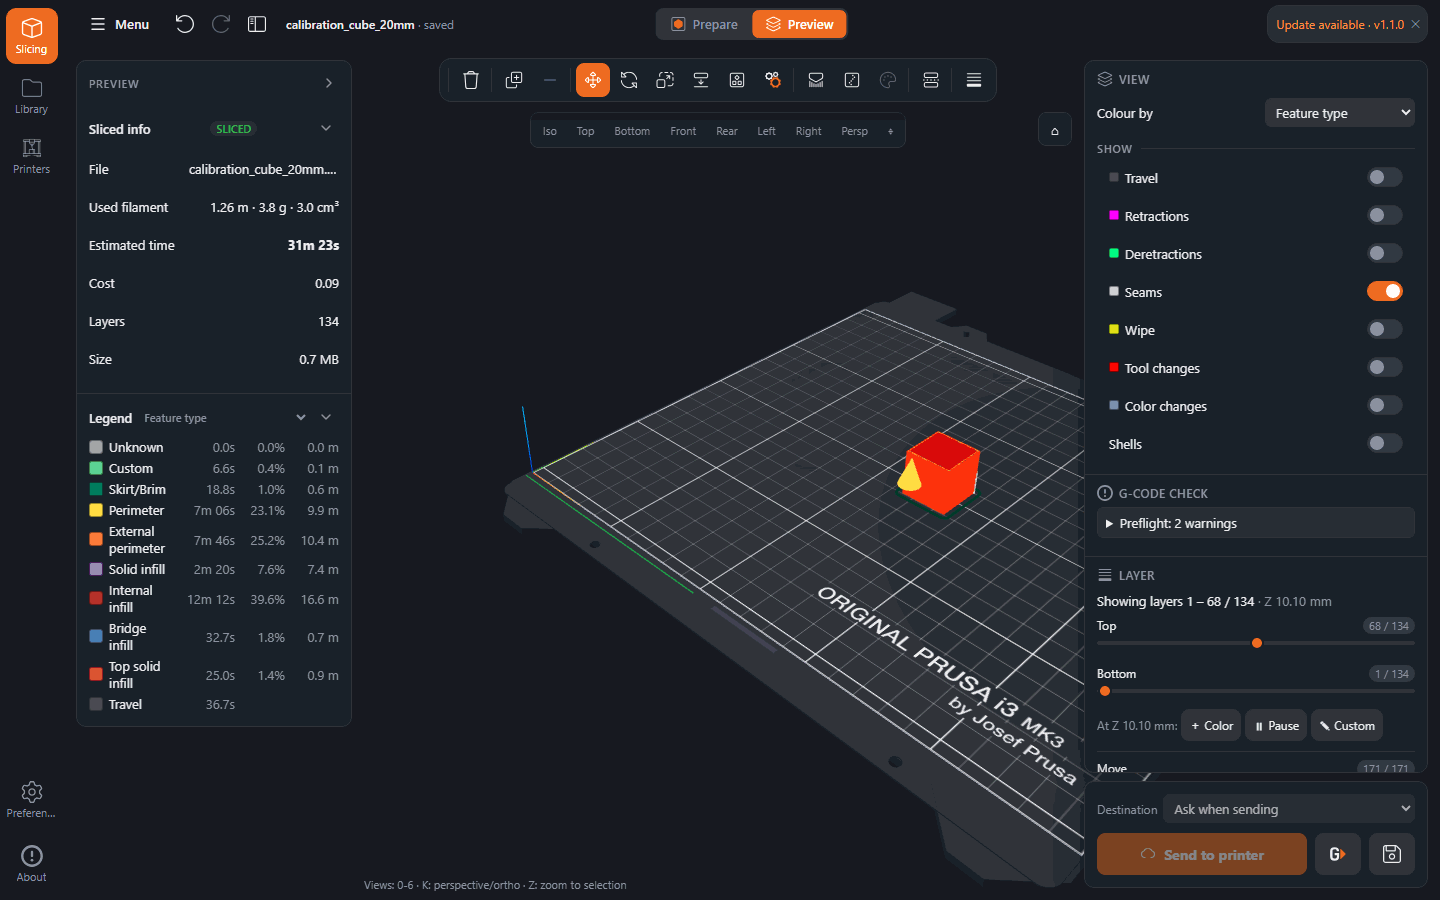
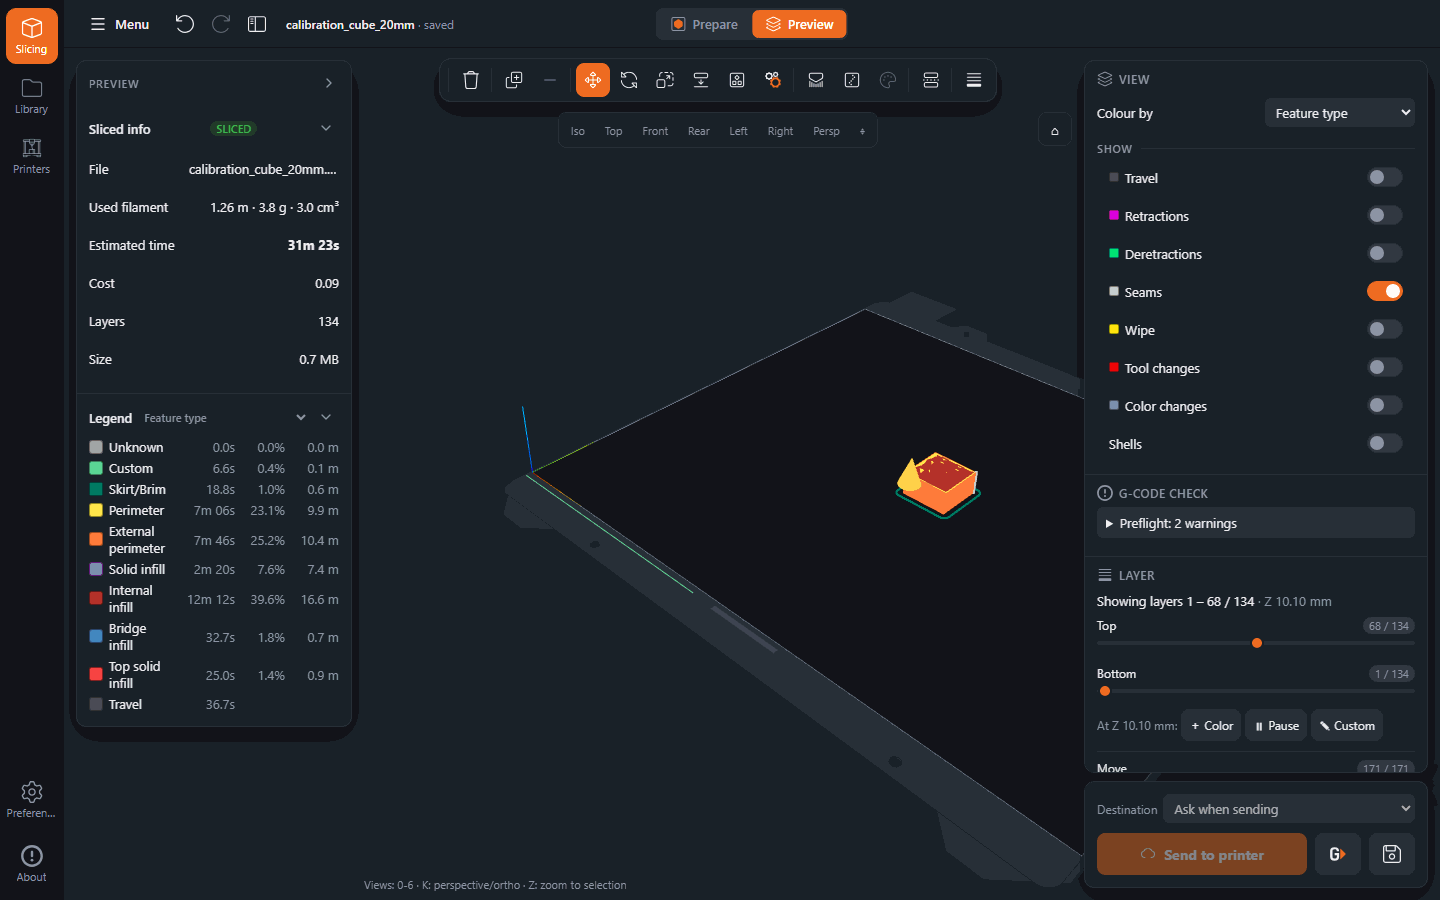
docs: the phone sheet, Details and view row (T-099)
features.md describes the four sheet positions, the library on an empty plate and the four-button view row; UAT-58 covers the new gestures. CHANGELOG lines for the fixes and changes, and preview.png no longer shows the Preview's Bottom button (#14).

diff --git a/docs/UAT.md b/docs/UAT.md
@@ -81,8 +81,8 @@ browser and screenshot.
 | UAT-54 | The "print at your own risk" notice (T-082) | Read the top of `README.md`, `SECURITY.md` and `docs/safety.md`. In the app open the rail's **About** and follow its **Safety checks** link. | All three documents open with the same short notice: WebSlicer slices and sends G-code to real machines, check the temperatures and the plate yourself, the checks reduce but do not remove the risk, AGPL without warranty, with a link to the safety page. The About dialog shows the same sentence before the shortcut table, and its link opens `docs/safety.md` on GitHub in a new tab. |
 | UAT-55 | Arrange on the real outline (T-084) | Open **Library → samples** and load `l_bracket.stl` twice. Press **A** and note where the two brackets land. Open the gear next to **Arrange**, tick **Enable rotations**, close the popover and press **A** again; then load a print profile with a brim (e.g. 5 mm) and arrange once more. | In the first run the two brackets stand side by side on one line, about one 40 mm square plus the 6 mm spacing apart, neither turned. With rotations on one of them is turned 180°, its notch faces the other's, and the two stand one behind the other in a single column – visibly closer than a square plus spacing, their outlines interlocking with the clearance kept. The slice panel lists no plate issue and **Slice now** is enabled in both runs. With the brim set, the arranged block keeps the brim's room at the bed edge and the plate check still lists nothing. The headless arrange of the same plate (`POST /api/projects/<id>/arrange` with the same settings) gives the same positions. |
 | UAT-56 | The safety step in the printer wizard (T-085) | Load the cube. With no answer for the active printer, look at the Slice footer, click its **No hotend type set…** link and answer **PTFE-lined hotend**, **Save**. Then set the filament `temperature` to `260` (Expert mode → Filament settings) and look at the field and the footer; fix it to `215`. Do the same through the API: `curl -X PUT -H 'content-type: application/json' -d '{"hotendType":"ptfe"}' http://localhost:8080/api/printer-safety/<preset>` then `POST /api/slice` with `"temperature":"260"`. Finally, delete `data/risk-notice.json`, reload and press **Slice now**; leave **Continue** locked, tick **I understand**, continue, then reload and slice again. Repeat the wizard once with a **Custom printer** and once with **Ask me later**. | The footer warns "No hotend type set for this printer – temperatures are only checked against the global 450 °C ceiling" and **Slice now** stays enabled; the link opens the Printers dialog straight on the safety question, titled with the preset name, with **Save** disabled until a type is chosen. After saving, `GET /api/printer-safety` holds `{"<preset>":{"hotendType":"ptfe","maxHotend":240}}` and the warning is gone. At 260 °C the field turns red with "… is above the 240 °C limit of this printer (PTFE-lined hotend)", the footer lists it with a red badge and **Slice now** is disabled; at 215 °C everything is clear again. The `curl` slice answers **400** with the same message and `config.hotend_limit` in `issues`. A fresh profile shows the **Before you print** card before the first slice: **Continue** is disabled until **I understand** is ticked, then the slice runs and `data/risk-notice.json` holds the version; after a reload no card appears. **Not now** closes the card without storing anything and the next slice in that session does not ask again. The custom printer shows **Step 2 of 3 – Safety** between the printer and its filament and stores `all-metal`/450; **Ask me later** stores nothing and the footer warning stays. |
-| UAT-57 | Phone companion flow (T-091) | Open the app in a phone browser (or a desktop browser narrowed to 390 × 844, with touch emulation). Tap **Library** in the bottom tab bar, upload an STL and tap its row; check the bottom sheet's three positions with a tap on its drag handle; pick a filament in the sheet; press **Slice now**; the app switches to the Preview on its own – check its layer slider, then press **Send to printer** to a configured host. Open **Printers**, **Preferences** and **About** from the bar, and the object list from the top bar. | Four labelled tabs, each ≥ 44 × 44 px, with **More** holding Preferences and About. The Slice button is on screen in every sheet position, without scrolling the page, and the sheet never covers the preview's layer slider. No screen scrolls sideways (`document.documentElement.scrollWidth` equals the viewport width). Every dialog fits between the browser bar and the phone's gesture area and its primary button (Apply, Next, Upload, Save) is reachable without scrolling. The object list is a drawer that stops above the tab bar. The send reaches the printer and the dialog closes. |
-| UAT-58 | The 3D view and the preview by finger (T-092) | Open the app on a phone (or a narrow window with touch emulation), touch a model on the plate and drag a finger over empty space, pinch with two fingers and move them together, double-tap the screen, long-press the model, then drag the selected model across the plate. Load a job, open the preview and tap the view buttons above it, drag the bottom slider, open the preview details and send the job to a printer from the sheet. | The page never scrolls or reloads from a gesture on the model (no pull-to-refresh, no back-swipe): one finger orbits, two fingers zoom and pan, a double tap restores the whole plate, a tap selects and a tap on empty space clears it, a long press offers Duplicate and Delete at the finger, and a drag of the selected model moves it on the plate and drops it onto the bed. In the preview every view button frames the toolpaths (not an empty plate), the slider's thumb is at least 44 px and drags by finger, the details fold into a chip in the sheet, the result line (time, filament, cost) and **Send** sit in the peek sheet, and the send's confirmation names the printer and the file. Landscape at 844 × 390 shows no sideways scroll and keeps the Slice button on screen. |
+| UAT-57 | Phone companion flow (T-091) | Open the app in a phone browser (or a desktop browser narrowed to 390 × 844, with touch emulation). Tap **Library** in the bottom tab bar, upload an STL and tap its row; check the bottom sheet's positions with a tap on its drag handle and a drag of it; pick a filament in the sheet; press **Slice now**; the app switches to the Preview on its own – check its layer slider, then press **Send to printer** to a configured host. Open **Printers**, **Preferences** and **About** from the bar, and the object list from the top bar. | Four labelled tabs, each ≥ 44 × 44 px, with **More** holding Preferences and About. The Slice button is on screen in every sheet position but hidden (the drag's position alone), without scrolling the page, and the sheet never covers the preview's layer slider. No screen scrolls sideways (`document.documentElement.scrollWidth` equals the viewport width). Every dialog fits between the browser bar and the phone's gesture area and its primary button (Apply, Next, Upload, Save) is reachable without scrolling. The object list is a drawer that stops above the tab bar. The send reaches the printer and the dialog closes. |
+| UAT-58 | The 3D view and the preview by finger (T-092, T-099) | Open the app on a phone (or a narrow window with touch emulation), touch a model on the plate and drag a finger over empty space, pinch with two fingers and move them together, double-tap the screen, long-press the model, then drag the selected model across the plate. On an empty plate check the **From library** button next to **Choose a model…**. Drag the sheet's grip down past peek until the grip is alone, tap it back to peek, and drag up slowly to watch the sheet follow the finger. Load a job, open the preview, tap **Details** in the peek row, tap the four view buttons above the model (Home, Iso, turn left, turn right) and turn right four times, drag the bottom slider, and send the job to a printer from the sheet. | The page never scrolls or reloads from a gesture on the model (no pull-to-refresh, no back-swipe): one finger orbits, two fingers zoom and pan, a double tap restores the whole plate, a tap selects and a tap on empty space clears it, a long press offers Duplicate and Delete at the finger, and a drag of the selected model moves it on the plate and drops it onto the bed. **From library** opens the Library dialog and loading its sample folds the sheet to peek. The sheet follows the finger one-to-one, settles on the nearest position after the release (or on the next one after a fling), gets as far down as the grip alone with the Slice button gone there, and a tap walks peek → half → full → peek without ever stopping on hidden. In the preview the row has exactly four buttons in one line (Home, Iso, turn left, turn right): each frames the toolpaths, a turn keeps the camera's height and distance, and four turns come back to the start. The row has no Top/Bottom/Front/Rear/Left/Right on a phone, and on a desktop the Preview's row has no Bottom while the Plater keeps all seven (key 2 still works in both). **Details** sits in the peek row, opens the sliced info and the legend, and the result line (time, filament, cost) and **Send** stay in the peek sheet. Landscape at 844 × 390 shows no sideways scroll and keeps the Slice button on screen. |
 | UAT-59 | Preview feedback (T-094, T-097) | Slice the 30 mm sphere. Zoom far out and close in; at close zoom drag **Top** and **Bottom** to a middle layer, then to the first and last single layers and back to the full range; drag the Move slider back and forth. In Filament Settings set **Filament colour** through the swatch and then through its hex field, returning to Preview with **Color print** selected each time. | Extrusion ribbons keep a readable width (at least 1.5 px far away) and stay interactive. At close zoom the layer window removes exactly the layers outside it, both single-layer ends stay visible, the full range restores the model, and Move partly removes/rebuilds the top layer while the yellow nozzle follows. Both colour controls hold the same valid hex value and the Preview changes to each chosen colour. |
 
 ## Known limitations (rc.2)

diff --git a/docs/features.md b/docs/features.md
@@ -104,12 +104,15 @@ Below 640 px the same app is a companion view for the print you already started:
 - the rail becomes a **bottom tab bar** with four labelled entries – **Slicing**, **Library**,
   **Printers** and **More**; More opens Preferences and About, so no function is lost. Every tab is
   at least 44 × 44 px, and the bar stays clear of the phone's gesture area;
-- the context panel is a **bottom sheet** with a drag handle. It has three positions – **peek**
-  (the Slice button and its warning line alone, the default, so the model keeps the scene), **half**
-  (the presets and quick settings) and **full** (the whole card). Tap the handle to walk through them,
-  or drag it up and down. The **Slice button is in the sheet's footer in every position**, so the file
-  on the plate is always one tap from slicing. In the Preview the layer card is the sheet's first
-  card, so one tap on the handle brings the layer slider up with the sliced model visible above it;
+- the context panel is a **bottom sheet** with a drag handle. It has four positions – **hidden** (the
+  grip alone, so the scene has the whole screen), **peek** (the Slice button and its warning line
+  alone, the default, so the model keeps the scene), **half** (the presets and quick settings) and
+  **full** (the whole card). Drag the handle or the card's header and the sheet follows the finger
+  one-to-one; it settles on the nearest position when the finger lifts, or on the next one in the
+  direction of a fling. A tap walks through peek → half → full → peek and never down to hidden. The
+  **Slice button is in the sheet's footer in every position but hidden**, so the file on the plate is
+  always one tap from slicing. In the Preview the layer card is the sheet's first card, so one tap on
+  the handle brings the layer slider up with the sliced model visible above it;
 - the object list is a **drawer** that the top bar opens; it stops above the tab bar;
 - dialogs take the phone's width, scroll their body and keep their primary button in a foot that
   stays on screen. Text and number fields use the phone's decimal keypad and are 16 px, so the browser
@@ -134,15 +137,18 @@ model:
 | Long press an object            | A small menu: **Duplicate**, **Delete**                                 |
 
 Rotating, scaling and the exact numbers stay in the panels, where a field and a stepper are more
-precise than a finger. The seven view buttons sit in one row of short labels above the model (their
-tooltips keep the whole word), and each frames what its name says.
+precise than a finger. The view row above the model is four icon buttons in one line – **Home**
+(frames the whole plate), **Iso**, and the two quarter turns that walk the camera around the model at
+the same elevation and distance – so the four isometric corners are one tap apart. On a wider window
+the row keeps the seven named views (minus Bottom in the Preview, where the plate hides the underside;
+key 2 still reaches it there and in the Plater).
 
 **A print from the phone's view.** The first file of the flow – picked in the Library, dropped, or
-chosen with the plater's own **Choose a model…** button – folds the sheet to **peek**, where the
-result line (**time · filament · cost**) sits right above the destination and **Send**. The Preview's
-view buttons (Iso, Top, Front, …) frame the visible toolpaths in one tap, the layer slider's thumb is
-a 44 px touch target, and the legend and the sliced details fold into a **Details** chip in the sheet
-instead of floating over the model.
+chosen with the plater's own **Choose a model…** or **From library** button – folds the sheet to
+**peek**, where the result line (**time · filament · cost**) sits right above the destination and
+**Send**. The Preview's view row frames the visible toolpaths in one tap, the layer slider's thumb is
+a 44 px touch target, and the legend and the sliced details sit behind a labelled **Details** chip in
+the peek row, so they are one tap away without opening the sheet.
 
 The desktop layout is unchanged above 900 px; 640–899 px keeps the drawers of the tablet layout.
 

diff --git a/CHANGELOG.md b/CHANGELOG.md
@@ -9,11 +9,20 @@ rc.3 to rc.5 and of the `Unreleased` of that time are kept verbatim in
 
 ### Fixed
 
+- **Phone test follow-ups (T-099):** an empty plate offers **From library** next to the picker, the
+  Preview's view row drops Bottom (#14; the Plater keeps all seven, key 2 still works), and the legend
+  and stats sit behind a labelled **Details** chip in the sheet's peek row.
 - **Zoomed Preview layer sliders (T-097):** Top, Bottom and Move now limit wide toolpath ribbons
   just like hairlines; single first/last layers no longer disappear (regression of T-094).
 - **A sliced model stays visible when zoomed in close (T-098):** the close-up toolpaths no longer
   need a texture as wide as the segment count, so a phone shows the result instead of an empty
   Preview, also after _Slice again_ (regression of T-094).
+
+### Changed
+
+- **The phone's sheet and view row (T-099):** the sheet follows the finger one-to-one, settles on the
+  nearest of hidden / peek / half / full after the release, and a tap cycles peek → half → full →
+  peek; the view row is four buttons in one line (Home, Iso, turn left, turn right).
 
 ### Added
 
